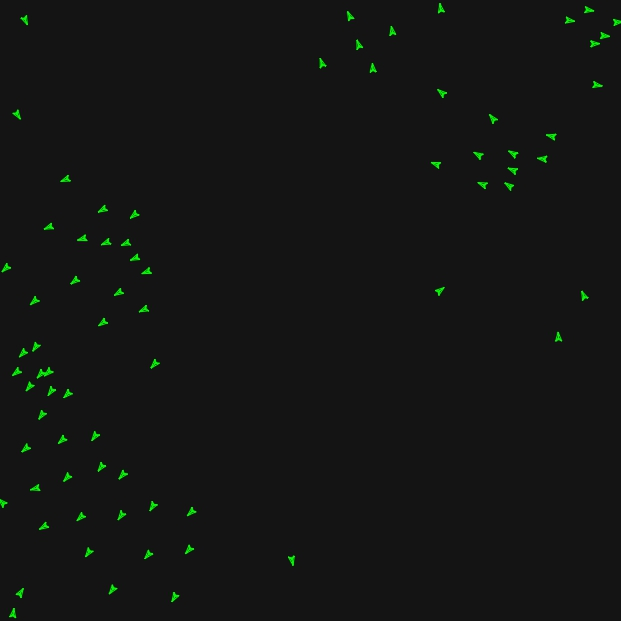
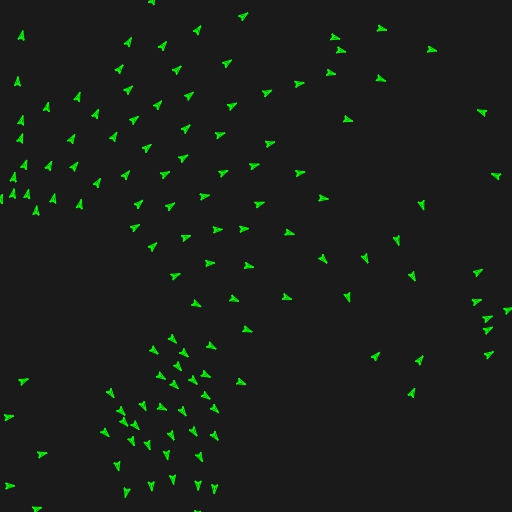
Added WPE propertiy changing

diff --git a/js/main.js b/js/main.js
@@ -1,23 +1,21 @@
 let boids = [];
 let grid;
 
-//boid params
-const boidcount = 500;
-const boidVisionRad = 50;
-const boidMaxSpeed = 2;
-const boidMaxSeparationForce = .22;
-const boidMaxCohesionForce = .2;
-const boidMaxAlignmentForce = .2;
-const boidSize = 3;
+//initial boid params
+var boidcount = 500;
+var boidVisionRad = 50;
+var boidMaxSpeed = 2;
+var boidMaxSeparationForce = .22;
+var boidMaxCohesionForce = .2;
+var boidMaxAlignmentForce = .2;
+var boidSize = 3;
+var boidColor;
 
 var bgColor;
-var boidColor;
 
 //debug
 let showFramerate = false;
 let showGrid = false;
-
-let debugText = "";
 
 function setup() {
     bgColor = color(40, 40, 40);
@@ -57,7 +55,7 @@ function draw() {
     }
 
     stroke(255);
-    text(debugText.toString(), 5,15);
+    text(boids.length, 5,15);
 
     //debugDraw
     if(showGrid) grid.draw();
@@ -97,46 +95,69 @@ window.wallpaperPropertyListener = {
 
         if (properties.boidcount) {
             if (properties.boidcount.value !== "") {
-                    // Do something with the slider value
-            }
-        }
+                let newCount = parseInt(properties.boidcount.value);
 
-        if (properties.cohesion) {
-            if (properties.cohesion.value !== "") {
-                for(let boid of boids){            
-                    boid.maxCohesionForce = parseFloat(properties.cohesion.value);  
+                if(newCount < boids.length){
+                    boids.splice(0, boids.length - newCount);
+                }
+                if(newCount > boids.length){
+                    while(boids.length < newCount){
+                        let boid = new Boid(random(0, width), random(0, height))
+                
+                        boid.visionRad = boidVisionRad;
+                        boid.maxSpeed = boidMaxSpeed;
+                        boid.maxSeparationForce = boidMaxSeparationForce;
+                        boid.maxCohesionForce = boidMaxCohesionForce;
+                        boid.maxAlignmentForce = boidMaxAlignmentForce;
+                        boid.size = boidSize;
+                
+                        boids.push(boid);
+                    }
                 }
             }
         }
 
-        if (properties.separation) {
-            if (properties.separation.value !== "") {
+        if (properties.boid_cohesion) {
+            if (properties.boid_cohesion.value !== "") {
+                boidMaxCohesionForce = parseFloat(properties.boid_cohesion.value);
                 for(let boid of boids){            
-                    boid.maxSeparationForce = parseFloat(properties.separation.value);  
+                    boid.maxCohesionForce = boidMaxCohesionForce;  
                 }
             }
         }
 
-        if (properties.alignment) {
-            if (properties.alignment.value !== "") {
+        if (properties.boid_separation) {
+            if (properties.boid_separation.value !== "") {
+                boidMaxSeparationForce  = parseFloat(properties.boid_separation.value);
                 for(let boid of boids){            
-                    boid.maxAlignmentForce = parseFloat(properties.alignment.value);  
+                    boid.maxSeparationForce = boidMaxSeparationForce;  
+                }
+            }
+        }
+
+        if (properties.boid_alignment) {
+            if (properties.boid_alignment.value !== "") {
+                boidMaxAlignmentForce = parseFloat(properties.boid_alignment.value)
+                for(let boid of boids){            
+                    boid.maxAlignmentForce = boidMaxAlignmentForce;  
                 }
             }
         }
         
-        if (properties.maxspeed) {
-            if (properties.maxspeed.value !== "") {
+        if (properties.boid_maxspeed) {
+            if (properties.boid_maxspeed.value !== "") {
+                boidMaxSpeed = parseFloat(properties.boid_maxspeed.value);
                 for(let boid of boids){            
-                    boid.maxSpeed = parseFloat(properties.maxspeed.value);  
+                    boid.maxSpeed = boidMaxSpeed;  
                 }
             }
         }
 
-        if (properties.visionradius) {
-            if (properties.visionradius.value !== "") {
-                for(let boid of boids){            
-                    boid.visionRad = parseFloat(properties.visionradius.value);  
+        if (properties.boid_visionradius) {
+            if (properties.boid_visionradius.value !== "") {
+                boidVisionRad = parseFloat(properties.boid_visionradius.value); 
+                for(let boid of boids){           
+                    boid.visionRad = boidVisionRad;  
                 }
             }
         } 

diff --git a/js/Boid.js b/js/Boid.js
@@ -30,16 +30,9 @@ class Boid{
 	getNeigborhood(flock, vision){
 		let neigborhood = [];
 		
-		for(let i=0; i<flock.length; i++){
-			if(flock[i] == this){
-				continue;
-			}
-			
-			let dist = this.pos.dist(flock[i].pos);
-			
-			if(dist <= vision){
-				neigborhood.push(flock[i]);
-			}
+		for(let member of flock){
+			if(member == this) continue;			
+			if(this.pos.dist(member.pos) <= vision) neigborhood.push(member);
 		}
 		return neigborhood;
 	}
